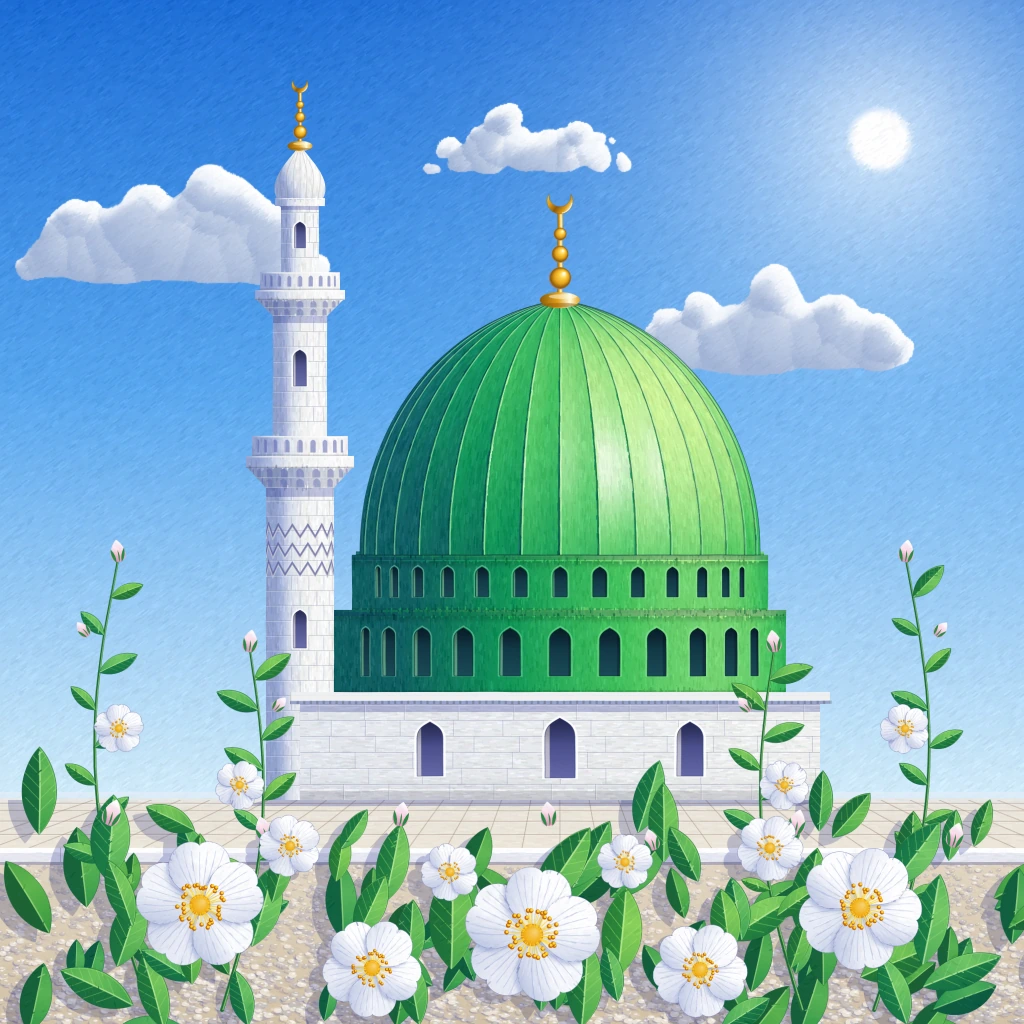
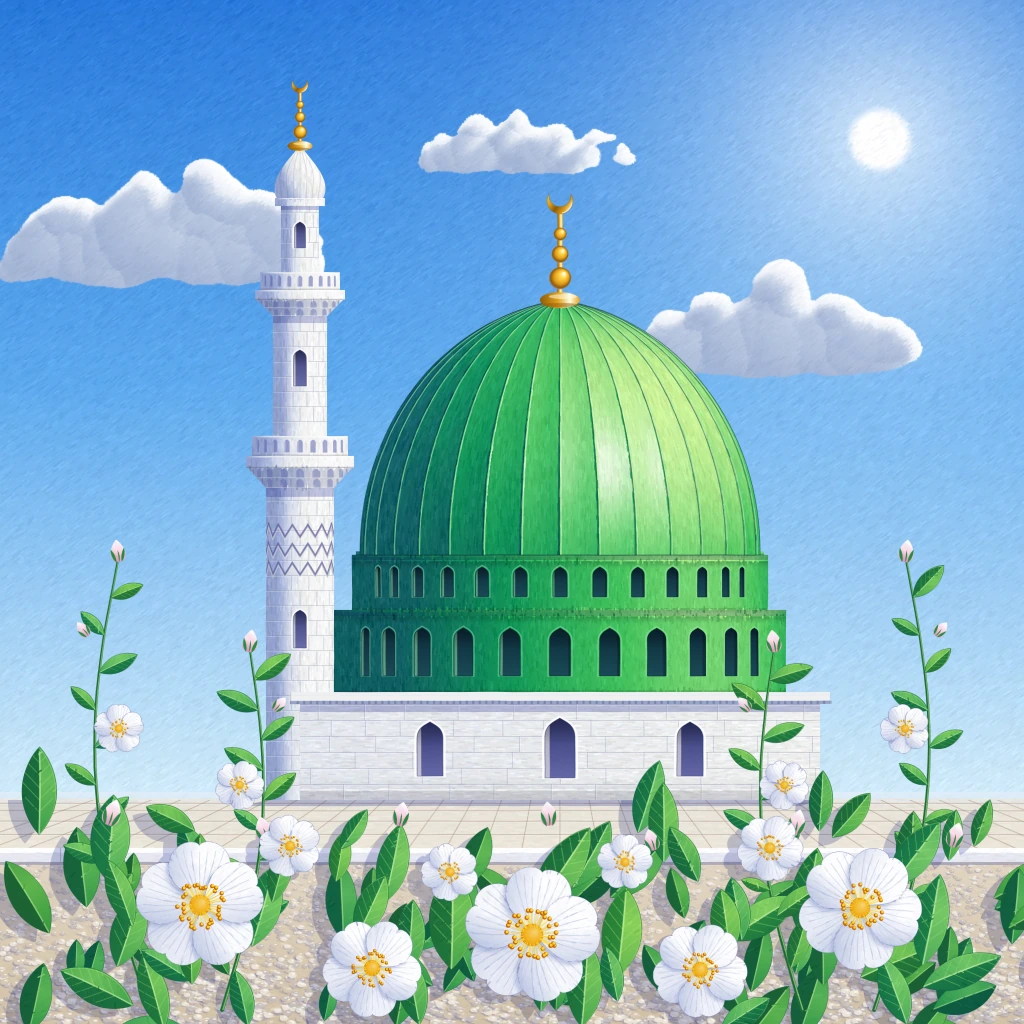
Atölye: kalem ve pastel ressam elleri (S-191–S-195) ilk tur
Claude-Session: https://claude.ai/code/session_01Q8CfoBGMPN7gfLWQYpMs1J

diff --git a/atolye/stiller/S-175-ince-firca-akrilik/ornek.html b/atolye/stiller/S-175-ince-firca-akrilik/ornek.html
@@ -1257,7 +1257,15 @@ const H = (function () {
     return p;
   }
 
-  return { S, N, sat, yum, hex, kar, css, C, rampa, norm, nokta, gurultu, tuval2, KP, kubbeNormal, gokBoya, bulutBoya, bulutYogun, bantBulut, fircala, titret, meridyenYonu, minareYolu, golgele, malzeme, silindirDeg, dikdortgen, kubbeBoya, minareBoya, pencereBoya, kaideBoya, kasnakBoya, alemBoya, yaprakBoya, cicekBoya, tacYolu, tomurcukBoya, sapBoya, ekYapraklar, kabartmaUygula, tuvalBezi, ornekleyici, isikKur, get L() { return L; }, ISIK2 };
+  /** Ana tuval: 2048 iç çözünürlük, sık okumaya uygun bağlam, 1024 koordinatı. */
+  function anaTuval(tv) {
+    tv.width = N; tv.height = N;
+    const g = tv.getContext('2d', { willReadFrequently: true });
+    g.setTransform(2, 0, 0, 2, 0, 0);
+    return g;
+  }
+
+  return { S, N, anaTuval, sat, yum, hex, kar, css, C, rampa, norm, nokta, gurultu, tuval2, KP, kubbeNormal, gokBoya, bulutBoya, bulutYogun, bantBulut, fircala, titret, meridyenYonu, minareYolu, golgele, malzeme, silindirDeg, dikdortgen, kubbeBoya, minareBoya, pencereBoya, kaideBoya, kasnakBoya, alemBoya, yaprakBoya, cicekBoya, tacYolu, tomurcukBoya, sapBoya, ekYapraklar, kabartmaUygula, tuvalBezi, ornekleyici, isikKur, get L() { return L; }, ISIK2 };
 })();
 
 </script>
@@ -1270,7 +1278,7 @@ const H = (function () {
   'use strict';
   const { S, css, kar, C, malzeme, golgele } = H;
   const tuval = document.getElementById('tuval');
-  const ctx = S.tuval(tuval, 2);
+  const ctx = H.anaTuval(tuval);
   const R = S.rng(1750);
   H.isikKur([0.58, 0.55, 0.6]);
 
@@ -1286,14 +1294,14 @@ const H = (function () {
   const tara = (kutu, yol, aci, o) => H.fircala(ctx, Object.assign({ kutu, yol, yogunluk: 70, boy: [6, 11], en: [1.2, 1.7], alfa: [0.65, 0.95], kil: 1, oynak: 15, kilOynak: 0, yon: () => aci + (R() - 0.5) * 0.06, tohum: Math.round(kutu[0] * 13 + kutu[1] * 7) }, o || {}));
 
   // ------------------------------------------------------------ gök: doygun mavi, keskin bulutlar
-  H.gokBoya(ctx, { ust: '#1C6CD4', orta: '#58A6EE', ufuk: '#D3ECF9', hale: '#F4FBFF', gunes: '#FFFFFF' },
+  H.gokBoya(ctx, { ust: '#2878DA', orta: '#5EAAEE', ufuk: '#D3ECF9', hale: '#F4FBFF', gunes: '#FFFFFF' },
     { haleR: 210, haleGuc: 0.8, gunesR: 30, gunesYum: 6, gurultu: 0, ortaT: 0.52, us: 0.9 });
   tara([0, 0, 1024, 802], null, -0.62, { yogunluk: 75, boy: [5, 10], en: [1.3, 1.8], oynak: 10 });
   const BUL = H.bulutYogun(ctx, [
-    { x: 170, y: 240, w: 320, h: 104, adet: 90, tohum: 71 },
-    { x: 525, y: 150, w: 210, h: 58, adet: 50, tohum: 75 },
-    { x: 776, y: 334, w: 290, h: 92, adet: 80, tohum: 73 },
-  ], { isik: '#FFFFFF', orta: '#EDF2F9', golge: '#9DB1D4' }, { esik: 0.5, kenar: 0.08, gOlcek: 22, gGuc: 0.12, sigma: 0.022, kure: 0.5, opaklik: 1, bulanik: 0.5, tohum: 74, burgu: 9, burguOlcek: 50, tabanYum: 12 });
+    { x: 165, y: 240, w: 340, h: 112, adet: 100, tohum: 71 },
+    { x: 525, y: 150, w: 220, h: 60, adet: 56, tohum: 76 },
+    { x: 780, y: 334, w: 300, h: 98, adet: 90, tohum: 73 },
+  ], { isik: '#FFFFFF', orta: '#ECF1F8', golge: '#9FB2D3' }, { esik: 0.5, kenar: 0.1, gOlcek: 24, gGuc: 0.2, sigma: 0.022, kure: 0.4, opaklik: 1, bulanik: 0.6, tohum: 74, burgu: 16, burguOlcek: 55, tabanYum: 14 });
   H.fircala(ctx, { kutu: [0, 80, 1024, 520], yogunluk: 75, boy: [5, 10], en: [1.2, 1.6], alfa: [0.55, 0.85], kil: 1, oynak: 7, kilOynak: 0, egri: false,
     icinde: (x, y) => BUL.kapsam(x, y) > 0.8, ucIcinde: true, yon: () => -0.62 + (R() - 0.5) * 0.06, tohum: 1751 });
 

diff --git a/atolye/stiller/S-198-murakka-album-sayfasi/ornek.html b/atolye/stiller/S-198-murakka-album-sayfasi/ornek.html
@@ -710,6 +710,49 @@
         for (const sg of [-1, 1]) ince([{ pts: [[cx, cy], [cx + ux * w * 0.6 - uy * w * sg, cy + uy * w * 0.6 + ux * w * sg]], closed: false }], 0.32, 'rgba(210,230,180,0.6)', 0.05);
       }
     }
+    // laleler ve karanfiller için ince saplar (dala ya da yere bağlanır)
+    const sapCiz = (pts) => {
+      ctx.strokeStyle = '#5E8C4A';
+      ctx.lineWidth = 2.4;
+      ctx.lineCap = 'round';
+      ctx.stroke(H.polyPath(pts));
+      ince([{ pts, closed: false }], 0.45, 'rgba(30,60,30,0.85)', 0.1);
+    };
+    const egri = (a, b, bk) => {
+      const pts = [];
+      for (let t = 0; t <= 1.0001; t += 0.1) {
+        const mx = (a[0] + b[0]) / 2 + bk;
+        const my = (a[1] + b[1]) / 2;
+        const u = 1 - t;
+        pts.push([u * u * a[0] + 2 * u * t * mx + t * t * b[0], u * u * a[1] + 2 * u * t * my + t * t * b[1]]);
+      }
+      return pts;
+    };
+    S.bitki.tomurcuklar.forEach((t, i) => {
+      const s = t.r / 9;
+      const ca = Math.cos(t.aci + Math.PI / 2);
+      const sa = Math.sin(t.aci + Math.PI / 2);
+      const taban = [t.x - 6 * s * sa, t.y + 6 * s * ca];
+      if (i < 8) {
+        if (i % 2 === 1) {
+          const dal = S.bitki.saplar[(i / 2) | 0];
+          sapCiz(egri(dal[19], taban, 0));
+        }
+      } else {
+        const alt = [taban[0] + (i % 2 ? 3 : -3), taban[1] + 34];
+        sapCiz(egri(alt, taban, i % 2 ? -4 : 4));
+        for (const sg of [-1, 1]) {
+          const d = yaprakYolu(alt[0], alt[1] - 6, -Math.PI / 2 + sg * 0.75, 18, 3.4, sg * 0.3);
+          doldur(d, '#5E9A64');
+          ince(d, 0.4, 'rgba(26,48,26,0.85)', 0.08);
+        }
+      }
+    });
+    S.bitki.cicekler.slice(0, 4).forEach((c, ci) => {
+      const dal = S.bitki.saplar[ci];
+      const k = c.r / 14;
+      sapCiz(egri(dal[14], [c.x, c.y + 12 * k], 0));
+    });
     // tomurcukların yerinde küçük kırmızı laleler
     for (const t of S.bitki.tomurcuklar) {
       const s = t.r / 9;

diff --git a/atolye/stiller/S-174-renk-iplikleri/ornek.html b/atolye/stiller/S-174-renk-iplikleri/ornek.html
@@ -1180,6 +1180,7 @@ const H = (function () {
         const a = o.yon(x, y);
         const ca = Math.cos(a) * l / 2, sa = Math.sin(a) * l / 2;
         pts = [[x - ca, y - sa], [x + ca, y + sa]];
+        if (o.ucIcinde && !(o.icinde(x - ca, y - sa) && o.icinde(x + ca, y + sa))) continue;
       }
       let c = ornek(x, y);
       if (o.renkFn) c = o.renkFn(c, x, y, r);
@@ -1256,7 +1257,15 @@ const H = (function () {
     return p;
   }
 
-  return { S, N, sat, yum, hex, kar, css, C, rampa, norm, nokta, gurultu, tuval2, KP, kubbeNormal, gokBoya, bulutBoya, bulutYogun, bantBulut, fircala, titret, meridyenYonu, minareYolu, golgele, malzeme, silindirDeg, dikdortgen, kubbeBoya, minareBoya, pencereBoya, kaideBoya, kasnakBoya, alemBoya, yaprakBoya, cicekBoya, tacYolu, tomurcukBoya, sapBoya, ekYapraklar, kabartmaUygula, tuvalBezi, ornekleyici, isikKur, get L() { return L; }, ISIK2 };
+  /** Ana tuval: 2048 iç çözünürlük, sık okumaya uygun bağlam, 1024 koordinatı. */
+  function anaTuval(tv) {
+    tv.width = N; tv.height = N;
+    const g = tv.getContext('2d', { willReadFrequently: true });
+    g.setTransform(2, 0, 0, 2, 0, 0);
+    return g;
+  }
+
+  return { S, N, anaTuval, sat, yum, hex, kar, css, C, rampa, norm, nokta, gurultu, tuval2, KP, kubbeNormal, gokBoya, bulutBoya, bulutYogun, bantBulut, fircala, titret, meridyenYonu, minareYolu, golgele, malzeme, silindirDeg, dikdortgen, kubbeBoya, minareBoya, pencereBoya, kaideBoya, kasnakBoya, alemBoya, yaprakBoya, cicekBoya, tacYolu, tomurcukBoya, sapBoya, ekYapraklar, kabartmaUygula, tuvalBezi, ornekleyici, isikKur, get L() { return L; }, ISIK2 };
 })();
 
 </script>
@@ -1270,7 +1279,7 @@ const H = (function () {
   'use strict';
   const { S, css, kar, C, malzeme, golgele } = H;
   const tuval = document.getElementById('tuval');
-  const ctx = S.tuval(tuval, 2);
+  const ctx = H.anaTuval(tuval);
   const R = S.rng(1740);
   H.isikKur([0.55, 0.52, 0.66]);
 

diff --git a/atolye/stiller/S-172-ince-yagliboya-ahsap-pano/ornek.html b/atolye/stiller/S-172-ince-yagliboya-ahsap-pano/ornek.html
@@ -1180,6 +1180,7 @@ const H = (function () {
         const a = o.yon(x, y);
         const ca = Math.cos(a) * l / 2, sa = Math.sin(a) * l / 2;
         pts = [[x - ca, y - sa], [x + ca, y + sa]];
+        if (o.ucIcinde && !(o.icinde(x - ca, y - sa) && o.icinde(x + ca, y + sa))) continue;
       }
       let c = ornek(x, y);
       if (o.renkFn) c = o.renkFn(c, x, y, r);
@@ -1256,7 +1257,15 @@ const H = (function () {
     return p;
   }
 
-  return { S, N, sat, yum, hex, kar, css, C, rampa, norm, nokta, gurultu, tuval2, KP, kubbeNormal, gokBoya, bulutBoya, bulutYogun, bantBulut, fircala, titret, meridyenYonu, minareYolu, golgele, malzeme, silindirDeg, dikdortgen, kubbeBoya, minareBoya, pencereBoya, kaideBoya, kasnakBoya, alemBoya, yaprakBoya, cicekBoya, tacYolu, tomurcukBoya, sapBoya, ekYapraklar, kabartmaUygula, tuvalBezi, ornekleyici, isikKur, get L() { return L; }, ISIK2 };
+  /** Ana tuval: 2048 iç çözünürlük, sık okumaya uygun bağlam, 1024 koordinatı. */
+  function anaTuval(tv) {
+    tv.width = N; tv.height = N;
+    const g = tv.getContext('2d', { willReadFrequently: true });
+    g.setTransform(2, 0, 0, 2, 0, 0);
+    return g;
+  }
+
+  return { S, N, anaTuval, sat, yum, hex, kar, css, C, rampa, norm, nokta, gurultu, tuval2, KP, kubbeNormal, gokBoya, bulutBoya, bulutYogun, bantBulut, fircala, titret, meridyenYonu, minareYolu, golgele, malzeme, silindirDeg, dikdortgen, kubbeBoya, minareBoya, pencereBoya, kaideBoya, kasnakBoya, alemBoya, yaprakBoya, cicekBoya, tacYolu, tomurcukBoya, sapBoya, ekYapraklar, kabartmaUygula, tuvalBezi, ornekleyici, isikKur, get L() { return L; }, ISIK2 };
 })();
 
 </script>
@@ -1269,7 +1278,7 @@ const H = (function () {
   'use strict';
   const { S, css, kar, C, malzeme, golgele } = H;
   const tuval = document.getElementById('tuval');
-  const ctx = S.tuval(tuval, 2);
+  const ctx = H.anaTuval(tuval);
   const R = S.rng(1720);
   H.isikKur([0.5, 0.55, 0.67]);
 

diff --git a/atolye/stiller/S-173-altin-saat-yagliboya/ornek.html b/atolye/stiller/S-173-altin-saat-yagliboya/ornek.html
@@ -1180,6 +1180,7 @@ const H = (function () {
         const a = o.yon(x, y);
         const ca = Math.cos(a) * l / 2, sa = Math.sin(a) * l / 2;
         pts = [[x - ca, y - sa], [x + ca, y + sa]];
+        if (o.ucIcinde && !(o.icinde(x - ca, y - sa) && o.icinde(x + ca, y + sa))) continue;
       }
       let c = ornek(x, y);
       if (o.renkFn) c = o.renkFn(c, x, y, r);
@@ -1256,7 +1257,15 @@ const H = (function () {
     return p;
   }
 
-  return { S, N, sat, yum, hex, kar, css, C, rampa, norm, nokta, gurultu, tuval2, KP, kubbeNormal, gokBoya, bulutBoya, bulutYogun, bantBulut, fircala, titret, meridyenYonu, minareYolu, golgele, malzeme, silindirDeg, dikdortgen, kubbeBoya, minareBoya, pencereBoya, kaideBoya, kasnakBoya, alemBoya, yaprakBoya, cicekBoya, tacYolu, tomurcukBoya, sapBoya, ekYapraklar, kabartmaUygula, tuvalBezi, ornekleyici, isikKur, get L() { return L; }, ISIK2 };
+  /** Ana tuval: 2048 iç çözünürlük, sık okumaya uygun bağlam, 1024 koordinatı. */
+  function anaTuval(tv) {
+    tv.width = N; tv.height = N;
+    const g = tv.getContext('2d', { willReadFrequently: true });
+    g.setTransform(2, 0, 0, 2, 0, 0);
+    return g;
+  }
+
+  return { S, N, anaTuval, sat, yum, hex, kar, css, C, rampa, norm, nokta, gurultu, tuval2, KP, kubbeNormal, gokBoya, bulutBoya, bulutYogun, bantBulut, fircala, titret, meridyenYonu, minareYolu, golgele, malzeme, silindirDeg, dikdortgen, kubbeBoya, minareBoya, pencereBoya, kaideBoya, kasnakBoya, alemBoya, yaprakBoya, cicekBoya, tacYolu, tomurcukBoya, sapBoya, ekYapraklar, kabartmaUygula, tuvalBezi, ornekleyici, isikKur, get L() { return L; }, ISIK2 };
 })();
 
 </script>
@@ -1269,7 +1278,7 @@ const H = (function () {
   'use strict';
   const { S, css, kar, C, malzeme, golgele } = H;
   const tuval = document.getElementById('tuval');
-  const ctx = S.tuval(tuval, 2);
+  const ctx = H.anaTuval(tuval);
   const R = S.rng(1730);
   H.isikKur([0.74, 0.4, 0.56]);
 

diff --git a/atolye/stiller/S-171-akademik-yagliboya/ornek.html b/atolye/stiller/S-171-akademik-yagliboya/ornek.html
@@ -1257,7 +1257,15 @@ const H = (function () {
     return p;
   }
 
-  return { S, N, sat, yum, hex, kar, css, C, rampa, norm, nokta, gurultu, tuval2, KP, kubbeNormal, gokBoya, bulutBoya, bulutYogun, bantBulut, fircala, titret, meridyenYonu, minareYolu, golgele, malzeme, silindirDeg, dikdortgen, kubbeBoya, minareBoya, pencereBoya, kaideBoya, kasnakBoya, alemBoya, yaprakBoya, cicekBoya, tacYolu, tomurcukBoya, sapBoya, ekYapraklar, kabartmaUygula, tuvalBezi, ornekleyici, isikKur, get L() { return L; }, ISIK2 };
+  /** Ana tuval: 2048 iç çözünürlük, sık okumaya uygun bağlam, 1024 koordinatı. */
+  function anaTuval(tv) {
+    tv.width = N; tv.height = N;
+    const g = tv.getContext('2d', { willReadFrequently: true });
+    g.setTransform(2, 0, 0, 2, 0, 0);
+    return g;
+  }
+
+  return { S, N, anaTuval, sat, yum, hex, kar, css, C, rampa, norm, nokta, gurultu, tuval2, KP, kubbeNormal, gokBoya, bulutBoya, bulutYogun, bantBulut, fircala, titret, meridyenYonu, minareYolu, golgele, malzeme, silindirDeg, dikdortgen, kubbeBoya, minareBoya, pencereBoya, kaideBoya, kasnakBoya, alemBoya, yaprakBoya, cicekBoya, tacYolu, tomurcukBoya, sapBoya, ekYapraklar, kabartmaUygula, tuvalBezi, ornekleyici, isikKur, get L() { return L; }, ISIK2 };
 })();
 
 </script>
@@ -1270,7 +1278,7 @@ const H = (function () {
   'use strict';
   const { S, css, kar, C, malzeme, golgele } = H;
   const tuval = document.getElementById('tuval');
-  const ctx = S.tuval(tuval, 2);
+  const ctx = H.anaTuval(tuval);
   const R = S.rng(1710);
 
   // ------------------------------------------------------------ palet (ressamın paleti)

diff --git a/atolye/stiller/S-199-kalemkar/ornek.html b/atolye/stiller/S-199-kalemkar/ornek.html
@@ -284,7 +284,7 @@
     sari: { renk: H.hex('#E9B52E'), ...katman() },
     yesil: { renk: H.hex('#3C8C56'), ...katman() },
     kara: { renk: H.hex('#221915'), ...katman() },
-    gok: { renk: H.hex('#4F94E2'), ...katman() },
+    gok: { renk: H.hex('#3F8EEA'), ...katman() },
   };
   const KATLAR = Object.values(BOYA);
   const sahneT = (k) => k.setTransform(2 * SC, 0, 0, 2 * SC, 2 * OX, 2 * OY);
